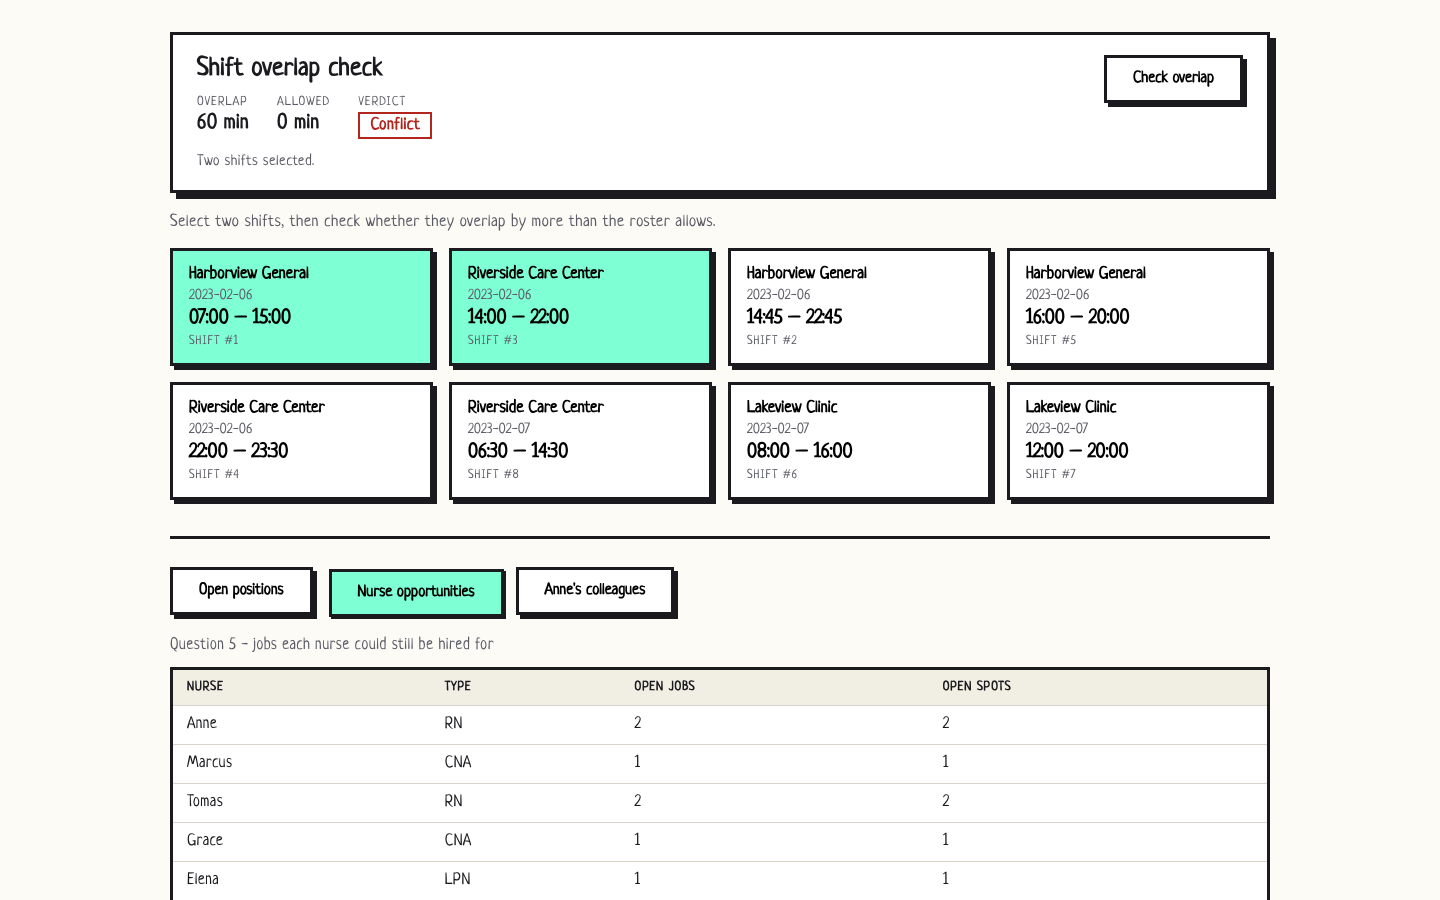
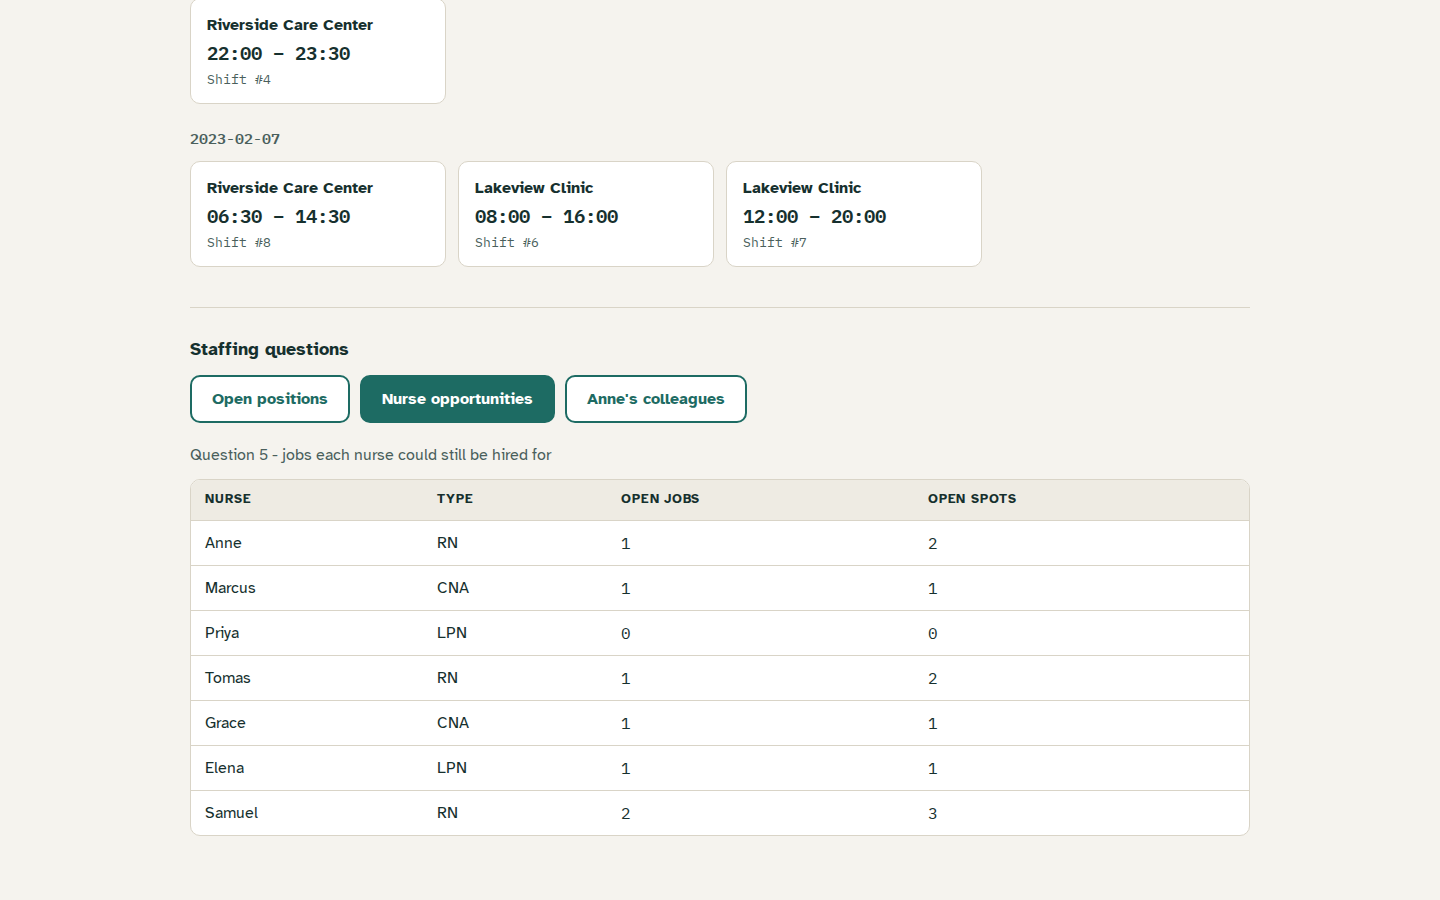
Rewrite the README around the product and add an MIT license
The README now covers the request flow (Mermaid), every endpoint, the
night-shift and time-zone handling, the corrected q5 semantics, the new
database tests and the Vite client. API examples were recaptured from
the Compose stack, and screenshots retaken with Playwright at 1440x900
and 390x844 on the demo seed. benchmarks.md notes that its timings
predate the q5 fix. No license existed; package.json said ISC by
default, so both now say MIT, held by the project authors.

diff --git a/README.md b/README.md
@@ -1,23 +1,31 @@
-# bravocare: shift overlap and staffing
+# Shift overlap and staffing API
 
-An Express + Prisma API on PostgreSQL with a React client, written for a staffing exercise. The main feature checks whether two nurse shifts overlap more than allowed. It also answers a few staffing queries: open positions per job, jobs each nurse is still eligible for, and which nurses share a facility.
+An Express + Prisma API on PostgreSQL with a small React client, written for a
+nurse-staffing exercise. Its main job is to say whether two shifts overlap by
+more than a roster allows. It also answers three staffing questions: how many
+nurses each job still needs, which jobs each nurse could still take, and who
+works alongside a given nurse.
 
-The overlap rule: shifts at the same facility can overlap by up to 30 minutes (handover), and shifts at different facilities can't overlap at all. Both limits are configurable through environment variables.
+The overlap rule: two shifts at the same facility may overlap by up to 30
+minutes (an in-person handover), and two shifts at different facilities may
+not overlap at all. Both limits are environment variables.
 
-![Overlap check](docs/screenshots/01-overlap-within-policy.png)
+![Overlap check on desktop](docs/screenshots/01-overlap-within-policy.png)
 
-## Running with Docker
+## Running it
+
+The quickest path is Docker Compose:
 
 ```sh
-cp .env.example .env    # optional
+cp .env.example .env    # optional; Compose has working defaults
 docker compose up --build
 ```
 
-This starts Postgres, runs the migrations and seed in a one-off `migrate` service, then starts the API on http://localhost:8601 and the client on http://localhost:8600.
+This starts Postgres, then a one-off `migrate` service that applies the
+migrations and loads the demo seed, then the API on http://localhost:8601 and
+the client on http://localhost:8600. Postgres is published on port 8605.
 
-## Running locally
-
-You'll need PostgreSQL and Node 22.12+.
+To run without Docker you need Node 22.12+ (see `.nvmrc`) and PostgreSQL:
 
 ```sh
 cp .env.example .env    # set DATABASE_URL
@@ -36,40 +44,133 @@ npm install
 npm run dev             # http://localhost:3001
 ```
 
+## How it fits together
+
+```mermaid
+flowchart LR
+  UI["React client<br/>(Vite)"] -->|JSON over HTTP| R["Express routes<br/>src/http"]
+  R --> V["validation +<br/>controllers"]
+  V --> S["ShiftService<br/>StaffingService"]
+  S --> D["domain/overlap<br/>domain/overlapPolicy"]
+  S --> Repo["repositories"]
+  Repo -->|"Prisma 7 + adapter-pg<br/>(raw SQL for q4-q6)"| PG[(PostgreSQL)]
+```
+
+Controllers only parse requests and shape responses. Services hold the rules
+and receive their repositories through the constructor (`src/container.js`
+wires the real ones), so the HTTP tests swap in in-memory repositories and
+need no database.
+
 ## Endpoints
 
-The staffing endpoints keep the question numbers from the exercise.
+The staffing routes keep the question numbers from the exercise brief.
 
-- `GET /health`
-- `GET /api/v1/question_one_shifts` paged list of shifts (`limit`, `offset`)
-- `POST /api/v1/overlap` with `{ "shift1": id, "shift2": id }`, returns the overlap in minutes, the allowed maximum and whether it's exceeded
-- `GET /api/v1/q4` open positions per job
-- `GET /api/v1/q5` jobs each nurse can still take
-- `GET /api/v1/q6?nurse=Anne` nurses who work at the same facilities as the given nurse
+| Method and path                   | What it returns                                                                                    |
+| --------------------------------- | -------------------------------------------------------------------------------------------------- |
+| `GET /health`                     | `{ "status": "ok" }`                                                                               |
+| `GET /api/v1/question_one_shifts` | Shifts with facility names, paged by `limit` and `offset`                                          |
+| `POST /api/v1/overlap`            | Overlap in minutes for `{ "shift1": id, "shift2": id }`, the allowance, and whether it is exceeded |
+| `GET /api/v1/q4`                  | Remaining spots per job                                                                            |
+| `GET /api/v1/q5`                  | For each nurse, the open jobs of their type they do not already hold                               |
+| `GET /api/v1/q6?nurse=Anne`       | Nurses who work at any facility the named nurse works at                                           |
 
-Example requests and responses are in [docs/api-examples.md](docs/api-examples.md).
+List endpoints return `meta: { total, limit, offset, returned }`. `limit` is
+capped at `MAX_PAGE_SIZE`. Errors come back as
+`{ "status": "error", "message": ... }` with a 400, 404 or 500 status, and a
+500 never includes database internals.
 
-## Implementation notes
+```console
+$ curl -s -X POST http://localhost:8601/api/v1/overlap \
+    -H 'Content-Type: application/json' -d '{"shift1": 1, "shift2": 3}'
+{
+    "status": "success",
+    "data": {
+        "overlap": 60,
+        "max_threshold": 0,
+        "exceeds_threshold": true,
+        "policy": "handover"
+    }
+}
+```
 
-- Night shifts (end time before start time) are treated as ending the next day, and Prisma's `TIME` values are read in UTC to avoid timezone shifts.
-- The overlap rule lives in `src/domain/overlapPolicy.js`. There are two policies, `handover` (default) and `strict`, and a custom one can be injected into `ShiftService`.
-- Question 5 pages through nurses inside the SQL query, before the join. On a large synthetic dataset this made a big difference, see [docs/benchmarks.md](docs/benchmarks.md).
-- The second migration adds foreign keys and indexes on the join columns.
+Every endpoint, with responses captured from the Compose stack, is in
+[docs/api-examples.md](docs/api-examples.md).
 
-Main settings (`.env.example`): `DATABASE_URL`, `PORT`, `CORS_ORIGIN`, `SAME_FACILITY_OVERLAP_ALLOWANCE_MINUTES`, `CROSS_FACILITY_OVERLAP_ALLOWANCE_MINUTES`, `DEFAULT_PAGE_SIZE`, `MAX_PAGE_SIZE`.
+## Design notes
+
+- **Night shifts.** A shift whose end time is at or before its start ends the
+  next day. Each shift's times are placed on its own `shift_date` before
+  comparing, so a 22:00-06:00 shift correctly collides with a 05:00 start the
+  next morning.
+- **Time zones.** Prisma returns a Postgres `TIME` as a date on 1970-01-01 UTC.
+  Both the API and the client read the UTC fields, so a shift shows the same
+  wall-clock time wherever the server or browser runs.
+- **Pluggable policy.** The allowance lives in `src/domain/overlapPolicy.js`.
+  `handover` is the default and `strict` allows no overlap; another policy can
+  be registered and passed to `ShiftService` without touching the service.
+- **Question 5.** A job counts only if it has a free spot and the nurse does
+  not hold it already. A nurse with nothing left is listed with zero rather
+  than dropped. The nurse page is taken inside the SQL, before the join; on a
+  50,000-nurse synthetic dataset that took the query from about 93 s to 0.3 s
+  (see [docs/benchmarks.md](docs/benchmarks.md)).
+- **Indexes and keys.** The second migration adds the missing foreign keys and
+  indexes the join columns the staffing queries use.
+
+## Screenshots
+
+| Desktop                                                                 | Mobile                                                            |
+| ----------------------------------------------------------------------- | ----------------------------------------------------------------- |
+| ![Conflict across facilities](docs/screenshots/02-overlap-conflict.png) | ![Mobile overlap check](docs/screenshots/05-mobile-overlap.png)   |
+| ![Open positions](docs/screenshots/03-open-positions.png)               | ![Mobile staffing table](docs/screenshots/06-mobile-staffing.png) |
+
+![Nurse opportunities](docs/screenshots/04-nurse-opportunities.png)
+
+All names in the seed and the screenshots are made up.
+
+## Configuration
+
+Settings are read from the environment (see `.env.example`):
+
+| Variable                                   | Default      | Purpose                            |
+| ------------------------------------------ | ------------ | ---------------------------------- |
+| `DATABASE_URL`                             | none         | Postgres connection string         |
+| `PORT`                                     | `3000`       | API port                           |
+| `CORS_ORIGIN`                              | `*`          | Allowed browser origin             |
+| `LOG_FORMAT`                               | `dev`        | morgan format                      |
+| `SAME_FACILITY_OVERLAP_ALLOWANCE_MINUTES`  | `30`         | Handover allowance at one facility |
+| `CROSS_FACILITY_OVERLAP_ALLOWANCE_MINUTES` | `0`          | Allowance across facilities        |
+| `DEFAULT_PAGE_SIZE` / `MAX_PAGE_SIZE`      | `50` / `200` | Pagination bounds                  |
+
+The client reads `VITE_API_BASE_URL` at build time (`client/.env.example`).
 
 ## Tests
 
 ```sh
-npm test              # API tests (node:test + supertest)
+npm test              # domain, service and HTTP tests (node:test + supertest)
 npm run test:client   # React tests (Vitest + React Testing Library)
-npm run lint
+npm run lint          # ESLint for the API and the client
+npm run format:check  # Prettier
 ```
 
-Neither suite needs a database. The API tests run against in-memory repositories.
+`npm test` needs no database. The raw SQL behind q4-q6 is covered separately
+against a real Postgres loaded with the demo seed. Point `TEST_DATABASE_URL`
+at a throwaway database (the tests delete every row):
+
+```sh
+TEST_DATABASE_URL=postgresql://bravocare:bravocare@localhost:8605/bravocare_test \
+  npm run test:db
+```
+
+`test:db` applies the migrations first, creating the database if needed. The
+example uses the Compose Postgres.
 
 ## Limitations
 
-- No authentication and no endpoints for creating or editing shifts.
+- No authentication, and no endpoints for creating or editing shifts.
 - Overlap is checked between two shifts at a time, not across a whole roster.
-- All seed data is made up.
+- The client loads the first page of shifts (50 by default) and says so when
+  there are more.
+
+## License
+
+MIT, see [LICENSE](LICENSE).

diff --git a/docs/api-examples.md b/docs/api-examples.md
@@ -1,8 +1,9 @@
 # API examples
 
-Real request/response pairs captured against a locally seeded database
-(`npm run db:seed`), with the API on port 8601. Bodies are piped through
-`python3 -m json.tool` for readability; nothing else has been edited.
+Real request/response pairs captured from the Compose stack (`docker compose
+up --build`, demo seed loaded by the `migrate` service). Bodies are
+pretty-printed; nothing else has been edited. Error examples show the HTTP
+status on the last line.
 
 ## `GET /health`
 
@@ -15,7 +16,8 @@ $ curl -s http://localhost:8601/health
 
 ## `GET /api/v1/question_one_shifts` - question 1
 
-The full roster. `meta` reports the page taken and the total available.
+The roster, ordered by date and start time. `meta` reports the page taken and
+the total available.
 
 ```console
 $ curl -s 'http://localhost:8601/api/v1/question_one_shifts?limit=2'
@@ -56,8 +58,8 @@ $ curl -s 'http://localhost:8601/api/v1/question_one_shifts?limit=2'
 
 ## `POST /api/v1/overlap` - question 1
 
-Two shifts at the same facility, 15 minutes apart. The handover allowance is
-30 minutes, so this is not a conflict.
+Two shifts at the same facility that overlap by 15 minutes. The handover
+allowance is 30 minutes, so this is not a conflict.
 
 ```console
 $ curl -s -X POST http://localhost:8601/api/v1/overlap \
@@ -92,9 +94,7 @@ $ curl -s -X POST http://localhost:8601/api/v1/overlap \
 ### Error responses
 
 ```console
-$ curl -s -w '
-HTTP %{http_code}
-' -X POST http://localhost:8601/api/v1/overlap \
+$ curl -s -X POST http://localhost:8601/api/v1/overlap \
     -H 'Content-Type: application/json' -d '{"shift1": 1, "shift2": 999}'
 {
     "status": "error",
@@ -119,7 +119,8 @@ HTTP 400
 ```
 
 ```console
-$ curl -s -X POST http://localhost:8601/api/v1/overlap -H 'Content-Type: application/json' -d '{}'
+$ curl -s -X POST http://localhost:8601/api/v1/overlap \
+    -H 'Content-Type: application/json' -d '{}'
 {
     "status": "error",
     "message": "shift1 is required"
@@ -129,7 +130,7 @@ HTTP 400
 
 ## `GET /api/v1/q4` - question 4
 
-How many nurses each job still needs.
+How many nurses each job still needs. Job 4 is full and shows zero.
 
 ```console
 $ curl -s http://localhost:8601/api/v1/q4

diff --git a/docs/benchmarks.md b/docs/benchmarks.md
@@ -57,6 +57,11 @@ result - brought 93 seconds down to 0.3 seconds, roughly 297x.
 This is why `findNurseOpportunities` takes `{ limit, offset }` and why
 `MAX_PAGE_SIZE` exists: a caller cannot ask for the unpaginated form at all.
 
+These timings predate the question 5 correctness fix, which drops full jobs
+in the `open_jobs` CTE and moves the "already hired" check into the join as
+a `NOT EXISTS`. The query keeps the same shape (page first, then join), but
+it has not been re-measured on the large dataset.
+
 Paging after the join would have measured the same 80 seconds, which is the
 point worth making: the pagination has to reach the query planner to matter.
 
